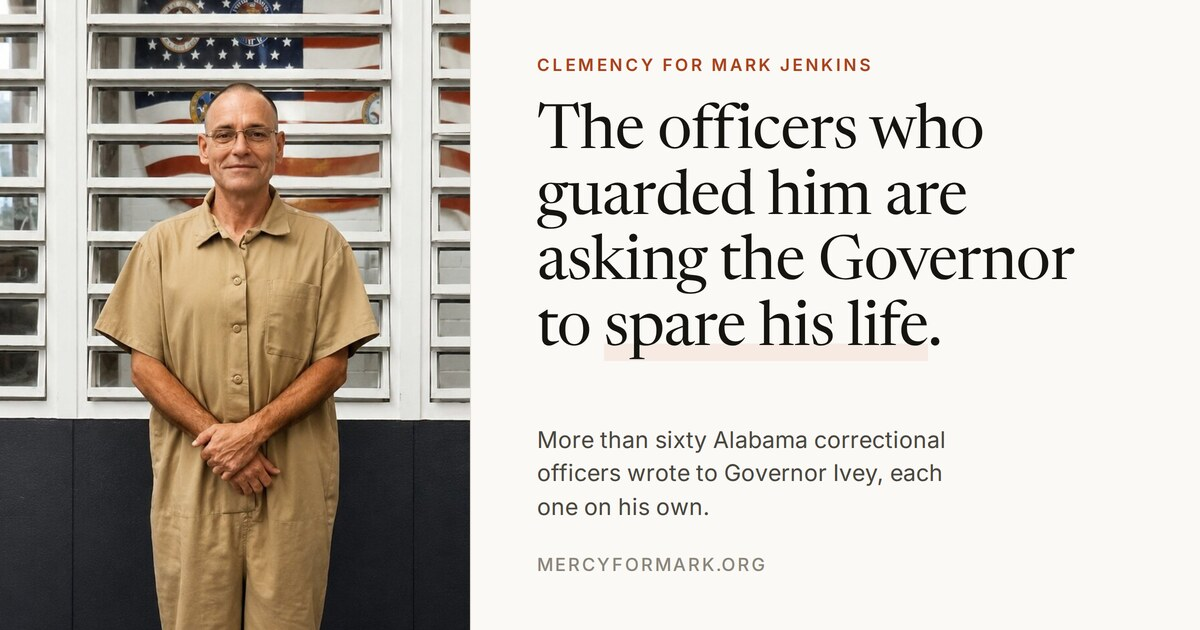
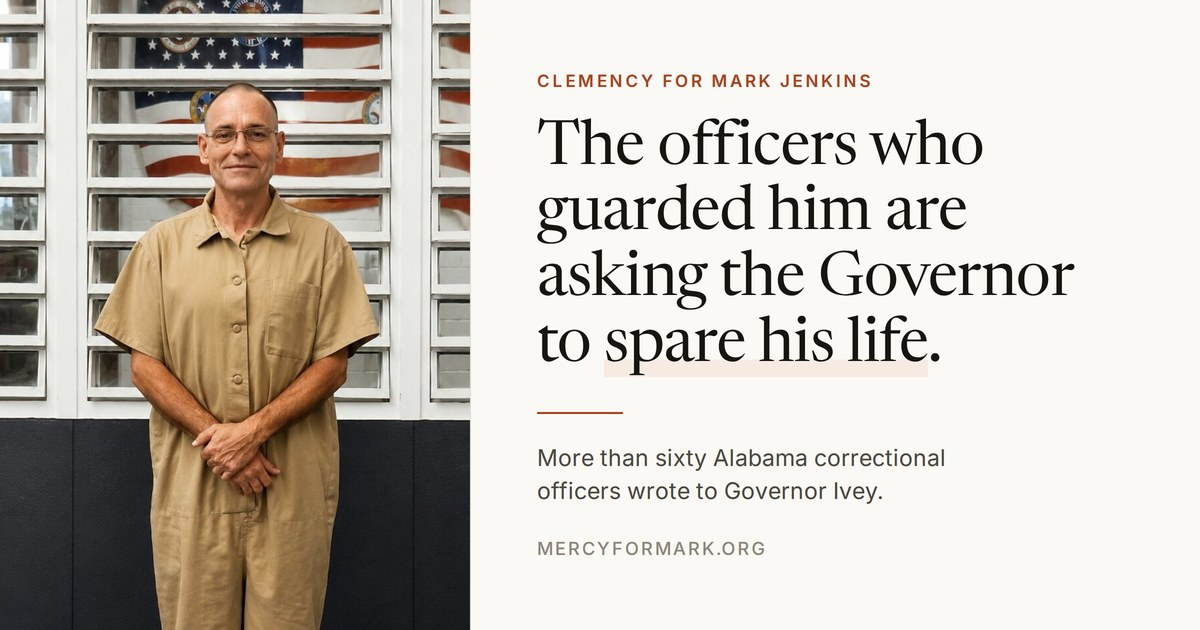
The share card and the officers description lose the clause

diff --git a/officers.html b/officers.html
@@ -4,9 +4,9 @@
 <meta name="viewport" content="width=device-width,initial-scale=1">
 <meta name="format-detection" content="telephone=no">
 <title>The Officers’ Letters | Mercy for Mark</title>
-<meta name="description" content="Sixty Alabama correctional officers wrote individually to the Governor asking her to spare Mark Jenkins. Read and search every letter.">
+<meta name="description" content="More than sixty Alabama correctional officers wrote to Governor Ivey. Read and search every letter.">
 <meta property="og:title" content="The Officers’ Letters | Mercy for Mark">
-<meta property="og:description" content="Sixty Alabama correctional officers wrote individually to the Governor asking her to spare Mark Jenkins. Read and search every letter.">
+<meta property="og:description" content="More than sixty Alabama correctional officers wrote to Governor Ivey. Read and search every letter.">
 <link rel="canonical" href="https://mercyformark.org/officers.html">
 <meta property="og:type" content="website">
 <meta property="og:site_name" content="Mercy for Mark">
@@ -18,7 +18,7 @@
 <meta property="og:image:alt" content="Mark Jenkins at Holman Correctional Facility, beside the words: the officers who guarded him are asking the Governor to spare his life.">
 <meta name="twitter:card" content="summary_large_image">
 <meta name="twitter:title" content="The Officers’ Letters | Mercy for Mark">
-<meta name="twitter:description" content="Sixty Alabama correctional officers wrote individually to the Governor asking her to spare Mark Jenkins. Read and search every letter.">
+<meta name="twitter:description" content="More than sixty Alabama correctional officers wrote to Governor Ivey. Read and search every letter.">
 <meta name="twitter:image" content="https://mercyformark.org/img/og/mercy-for-mark.jpg">
 <link rel="icon" href="/favicon.ico" sizes="32x32">
 <link rel="icon" type="image/svg+xml" href="/favicon.svg">
